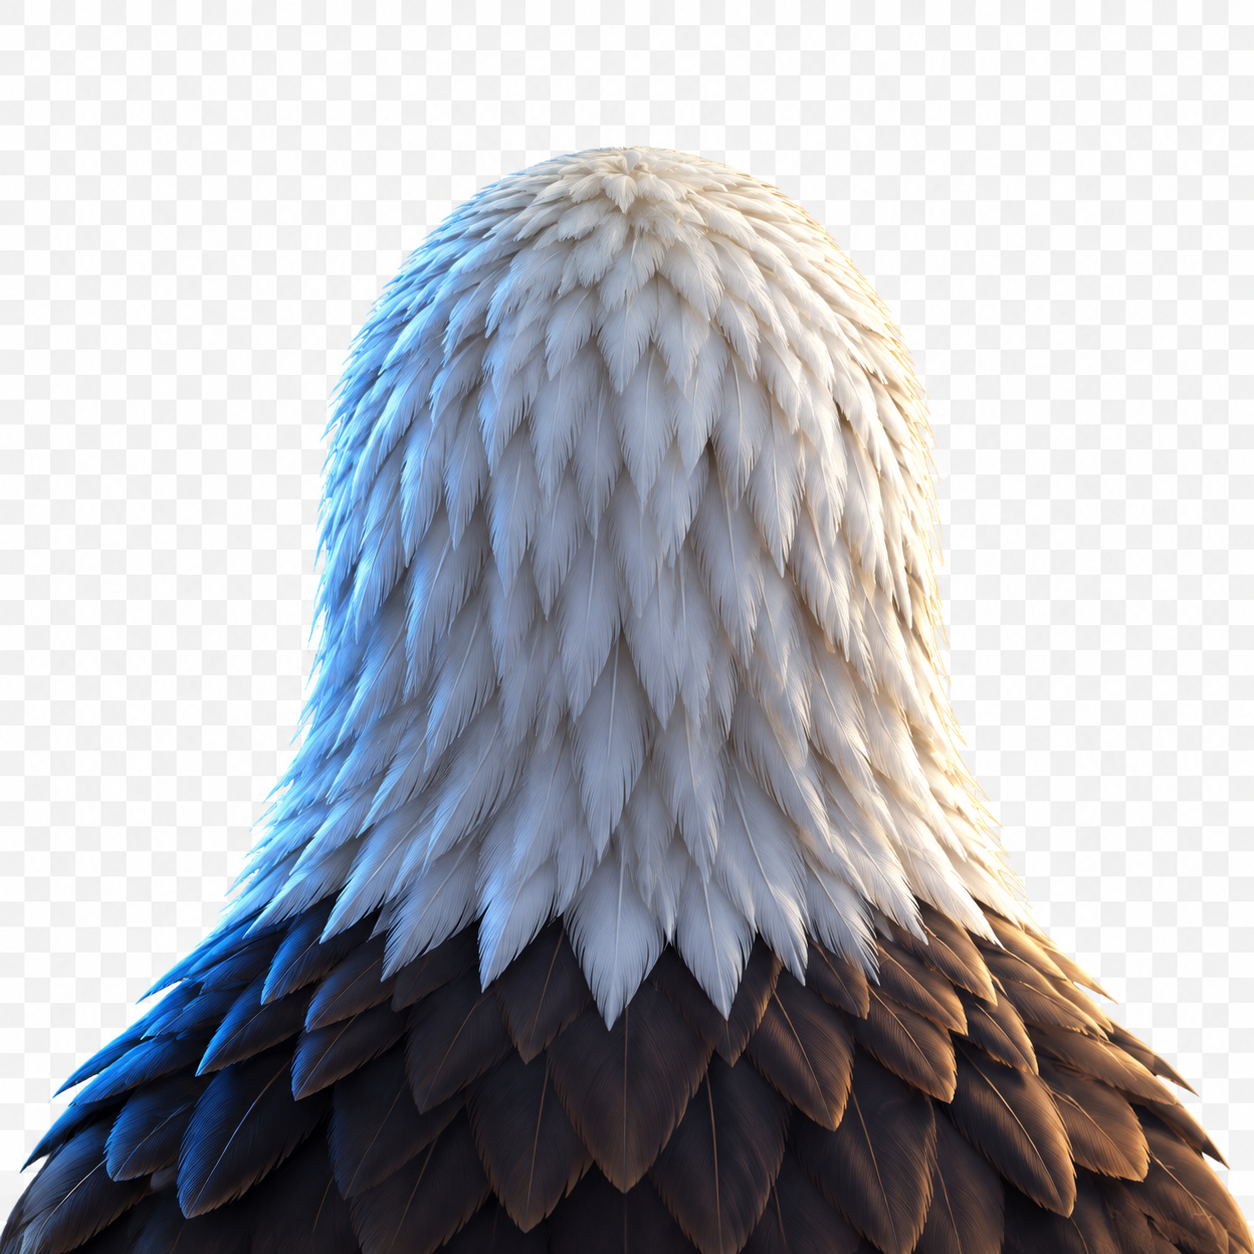
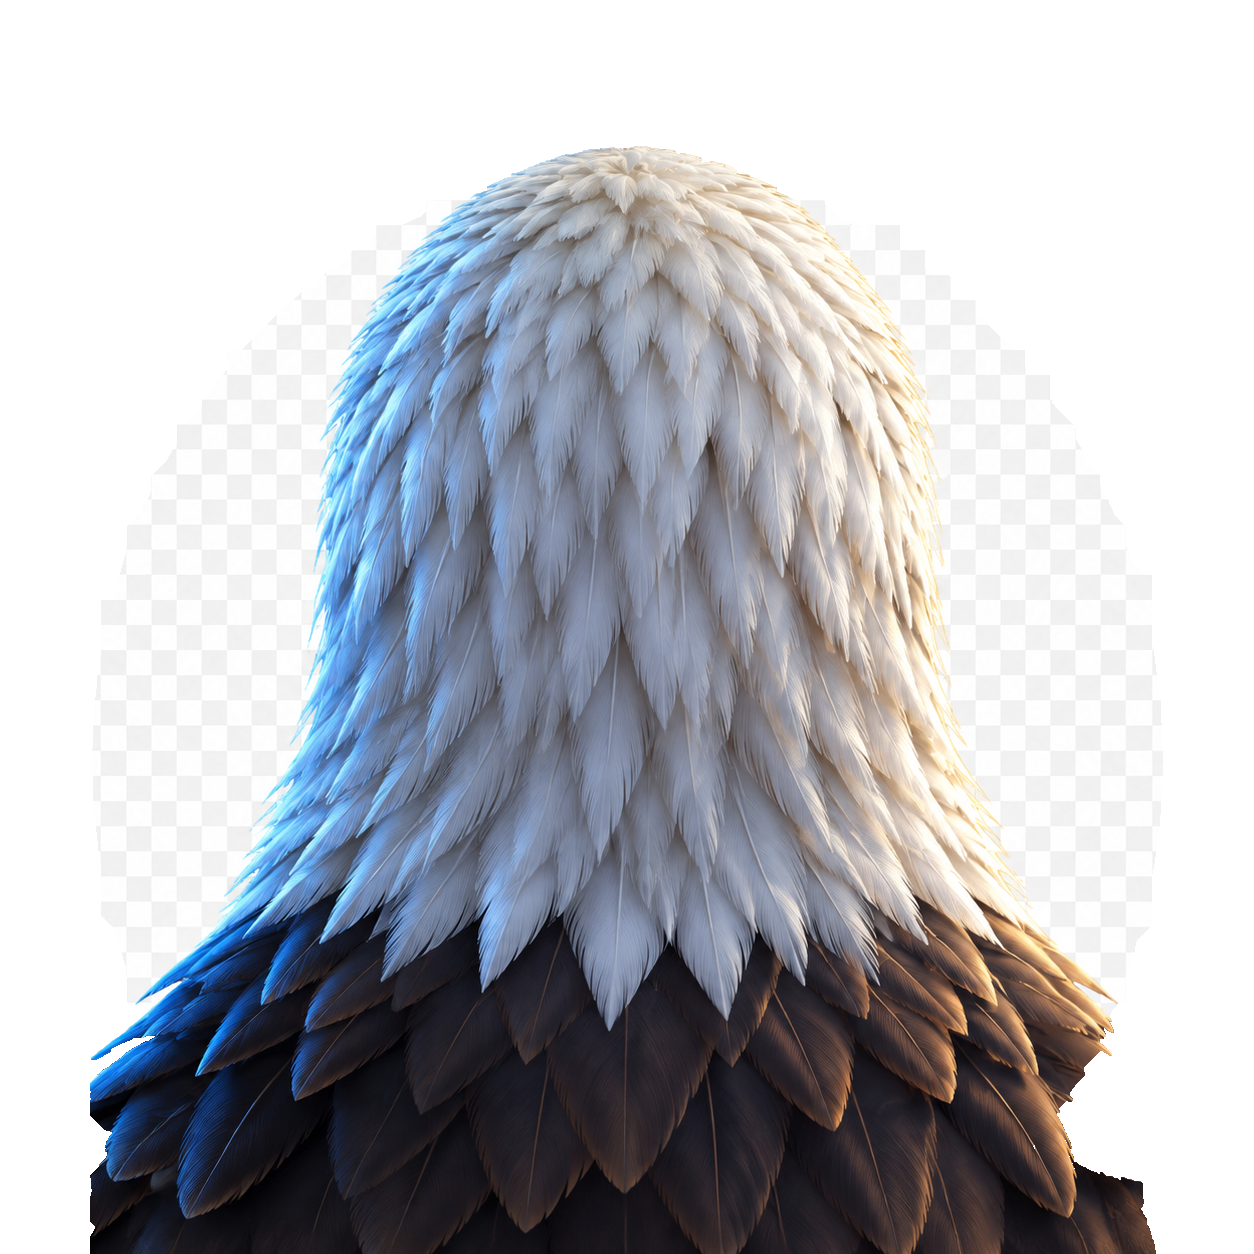
fix: refine follow camera eagle and circular controls

Changed region(s): [[0.8397, 0.8086, 1.0, 1.0], [0.0, 0.8397, 0.0933, 1.0], [0.0933, 0.8086, 0.1244, 0.8397]]

diff --git a/front/app/globals.css b/front/app/globals.css
@@ -1169,7 +1169,7 @@ body { font-family: "Fira Sans", Inter, "PingFang SC", "Microsoft YaHei", ui-san
 @media (prefers-reduced-motion: reduce) { .eagle-avatar[data-moving='true'] img { animation: none; } }
 
 /* Follow-camera eagle: rear feathers in straight flight, side profile only while banking into a turn. */
-.eagle-avatar { bottom: -1px; width: 170px; height: 170px; perspective: 720px; }
+.eagle-avatar { bottom: -32px; width: 170px; height: 170px; perspective: 720px; }
 .eagle-avatar .eagle-rear, .eagle-avatar .eagle-side { display: block; }
 .eagle-avatar .eagle-side { display: none; }
 .eagle-avatar[data-turn='left'] .eagle-rear, .eagle-avatar[data-turn='right'] .eagle-rear { display: none; }
@@ -1179,13 +1179,14 @@ body { font-family: "Fira Sans", Inter, "PingFang SC", "Microsoft YaHei", ui-san
 .eagle-avatar[data-turn='left'] { --eagle-bank: -14deg; --eagle-yaw: -24deg; }
 .eagle-avatar[data-turn='right'] { --eagle-bank: 14deg; --eagle-yaw: 24deg; }
 .eagle-avatar { transform: translateX(-50%) scale(1.5) rotateY(var(--eagle-yaw, 0deg)) rotateZ(var(--eagle-bank, 0deg)); }
-@media (max-width: 700px) { .eagle-avatar { bottom: -1px; width: 132px; height: 132px; transform: translateX(-50%) scale(1.5) rotateY(var(--eagle-yaw, 0deg)) rotateZ(var(--eagle-bank, 0deg)); } }
+@media (max-width: 700px) { .eagle-avatar { bottom: -22px; width: 132px; height: 132px; transform: translateX(-50%) scale(1.5) rotateY(var(--eagle-yaw, 0deg)) rotateZ(var(--eagle-bank, 0deg)); } }
 
 /* Circular translucent controls: QWER / ASDF arranged like a compact flight keypad. */
-.virtual-keyboard { padding: 8px 10px; border: 1px solid rgba(255, 255, 255, .24); border-radius: 28px; background: rgba(8, 24, 45, .28); box-shadow: inset 0 1px rgba(255, 255, 255, .16), 0 8px 22px rgba(0, 0, 0, .16); backdrop-filter: blur(8px); }
-.virtual-key { width: 38px; min-width: 38px; height: 38px; padding: 0; border-radius: 50%; }
-.key-row-wide .virtual-key { width: 100%; height: 32px; min-height: 32px; border-radius: 18px; }
-@media (max-width: 700px) { .virtual-key { width: 34px; min-width: 34px; height: 34px; } }
+.virtual-keyboard { display: grid; align-content: center; gap: 5px; width: 164px; height: 164px; padding: 20px 14px; border: 1px solid rgba(255, 255, 255, .3); border-radius: 50%; background: radial-gradient(circle at 35% 25%, rgba(255, 255, 255, .2), rgba(8, 24, 45, .48) 68%); box-shadow: inset 0 1px rgba(255, 255, 255, .2), 0 10px 26px rgba(0, 0, 0, .22); backdrop-filter: blur(10px); box-sizing: border-box; }
+.key-row { gap: 4px; }
+.virtual-key { width: 30px; min-width: 30px; height: 30px; padding: 0; border-radius: 50%; }
+.key-row-wide .virtual-key { width: 122px; height: 28px; min-height: 28px; margin: 0 auto; border-radius: 15px; }
+@media (max-width: 700px) { .virtual-keyboard { width: 148px; height: 148px; padding: 18px 10px; } .virtual-key { width: 28px; min-width: 28px; height: 28px; } .key-row-wide .virtual-key { width: 116px; } }
 
 /* Detail view contrast: the scene stays dark, while its surrounding metadata remains readable. */
 .model-detail { border-color: #c7d7e6 !important; background: #ffffff !important; color: #12345b !important; }
